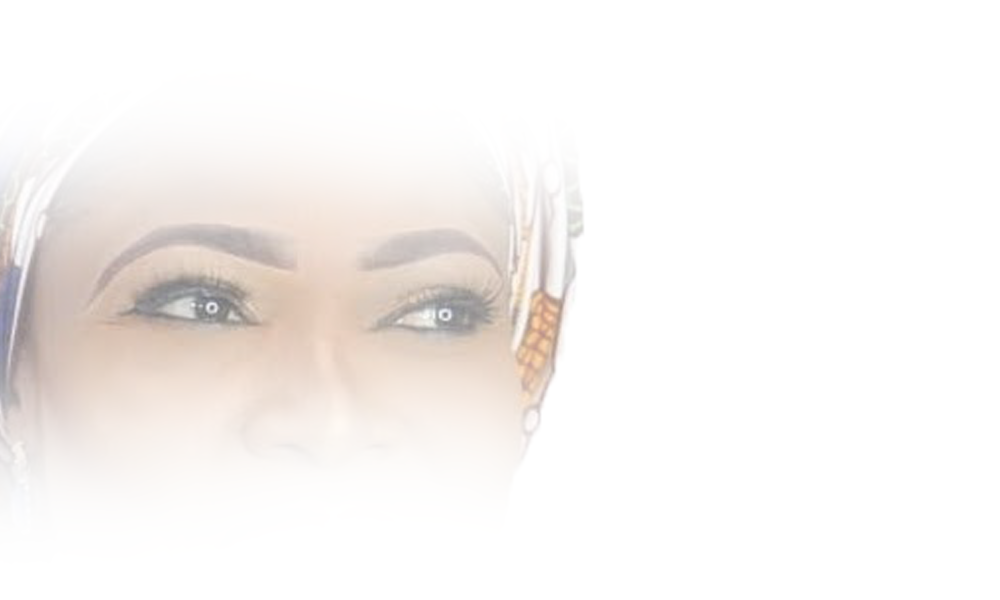
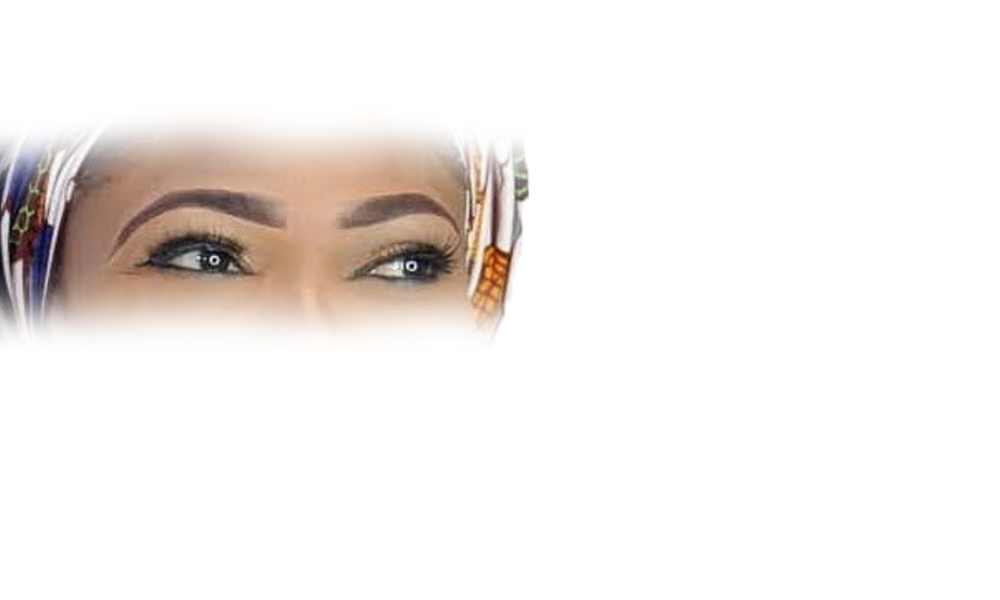
update pages css

Changed region(s): [[0.0, 0.21, 0.589, 0.78]]

diff --git a/styles/index-media.css b/styles/index-media.css
@@ -4,15 +4,15 @@
         margin: 70px 0 0 50px ;
      }
      body{
-        background-image: url(/images/new-landing.png);
+        background-image: url(/images/test-landing.png);
         background-size:cover;     
      } 
      
      h1{
-          font-size: 4rem;
+        font-size: 4rem;
      }
-     .head{
-      
+     .frontpage_wrapper{
+        margin-top: 300px;
      }
      .card-holder-section{
         display:flex;
@@ -22,7 +22,7 @@
         margin: 10px auto ;    
      }
      .card{
-        margin-top: 50px;
+        margin-top: auto;
         text-align: center;
      }
      footer{

diff --git a/styles/team.css b/styles/team.css
@@ -217,7 +217,7 @@ main div h2{
         margin-top:150px;
     }
     .team-image{
-        margin-left: 150px;
+        margin-left: 250px;
     }
     .profile{
         padding:20px 400px;
@@ -225,8 +225,18 @@ main div h2{
         transition: all 0.5s ease;
     }
     .details{
-        margin:50px 150px 0 0;
+        margin:50px 230px 0 0;
         text-align: left;
+    }
+    /*Team member styling*/
+    .mildred-details{
+        margin-left:-50px;
+    }
+    .kayode-details{
+        margin-left: -30px;
+    }
+    .chukwumampam-details{
+        margin-left: 50px;
     }
     
 }

diff --git a/index.html b/index.html
@@ -26,8 +26,7 @@
         <!--Frontpage information--> 
         <div class="frontpage_wrapper">
             <div class="frontpage_info">
-                <h1>Empowering you to<br><span class="frontpage_info_highlight"> achieve more</span></h1>
-                <button class="btn apply-btn"><span class="btn-text">Apply for a Loan</span>&#8594</button>
+                <button class="btn apply-btn"><span class="btn-text">Invest with Us</span>&#8594</button>
             </div>
         </div>
         <div class="media-bar">

diff --git a/styles/index.css b/styles/index.css
@@ -23,7 +23,7 @@ html{
 
 }
 body{
-    background-image: url(/images/new-landing.png);
+    background-image: url(/images/test-landing.png);
     background-size:contain;
     background-repeat:no-repeat;
     
